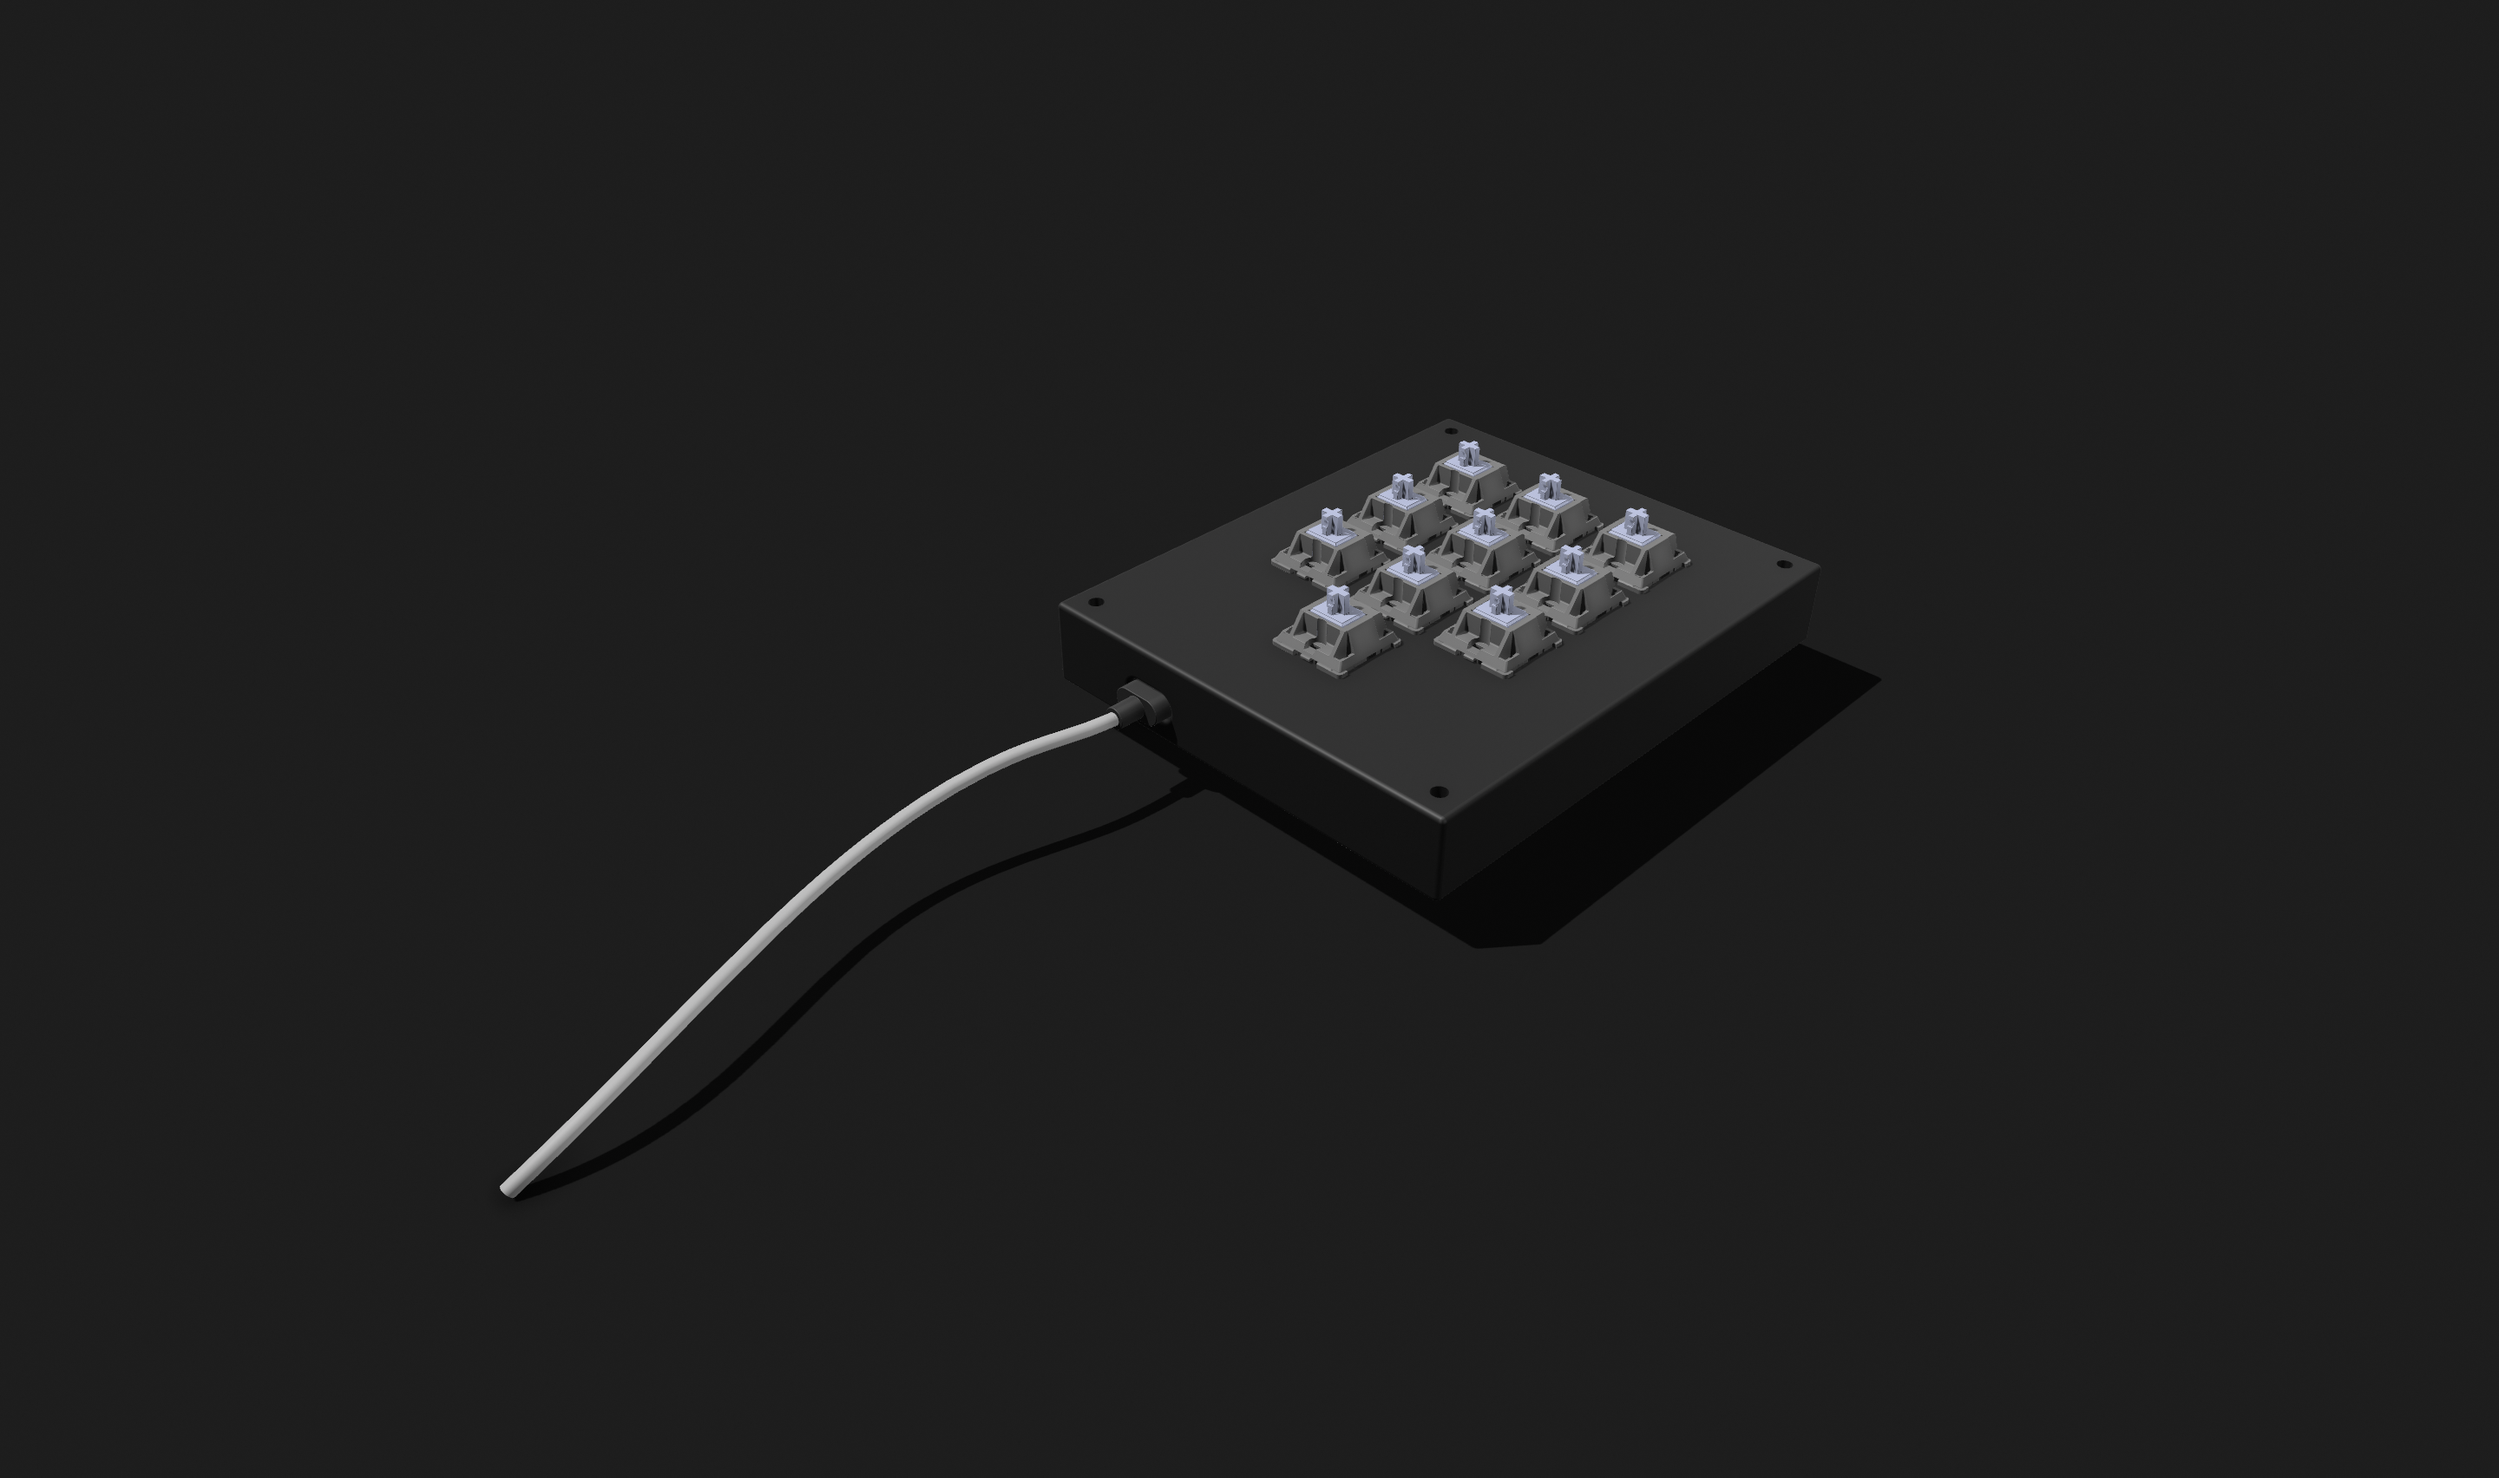
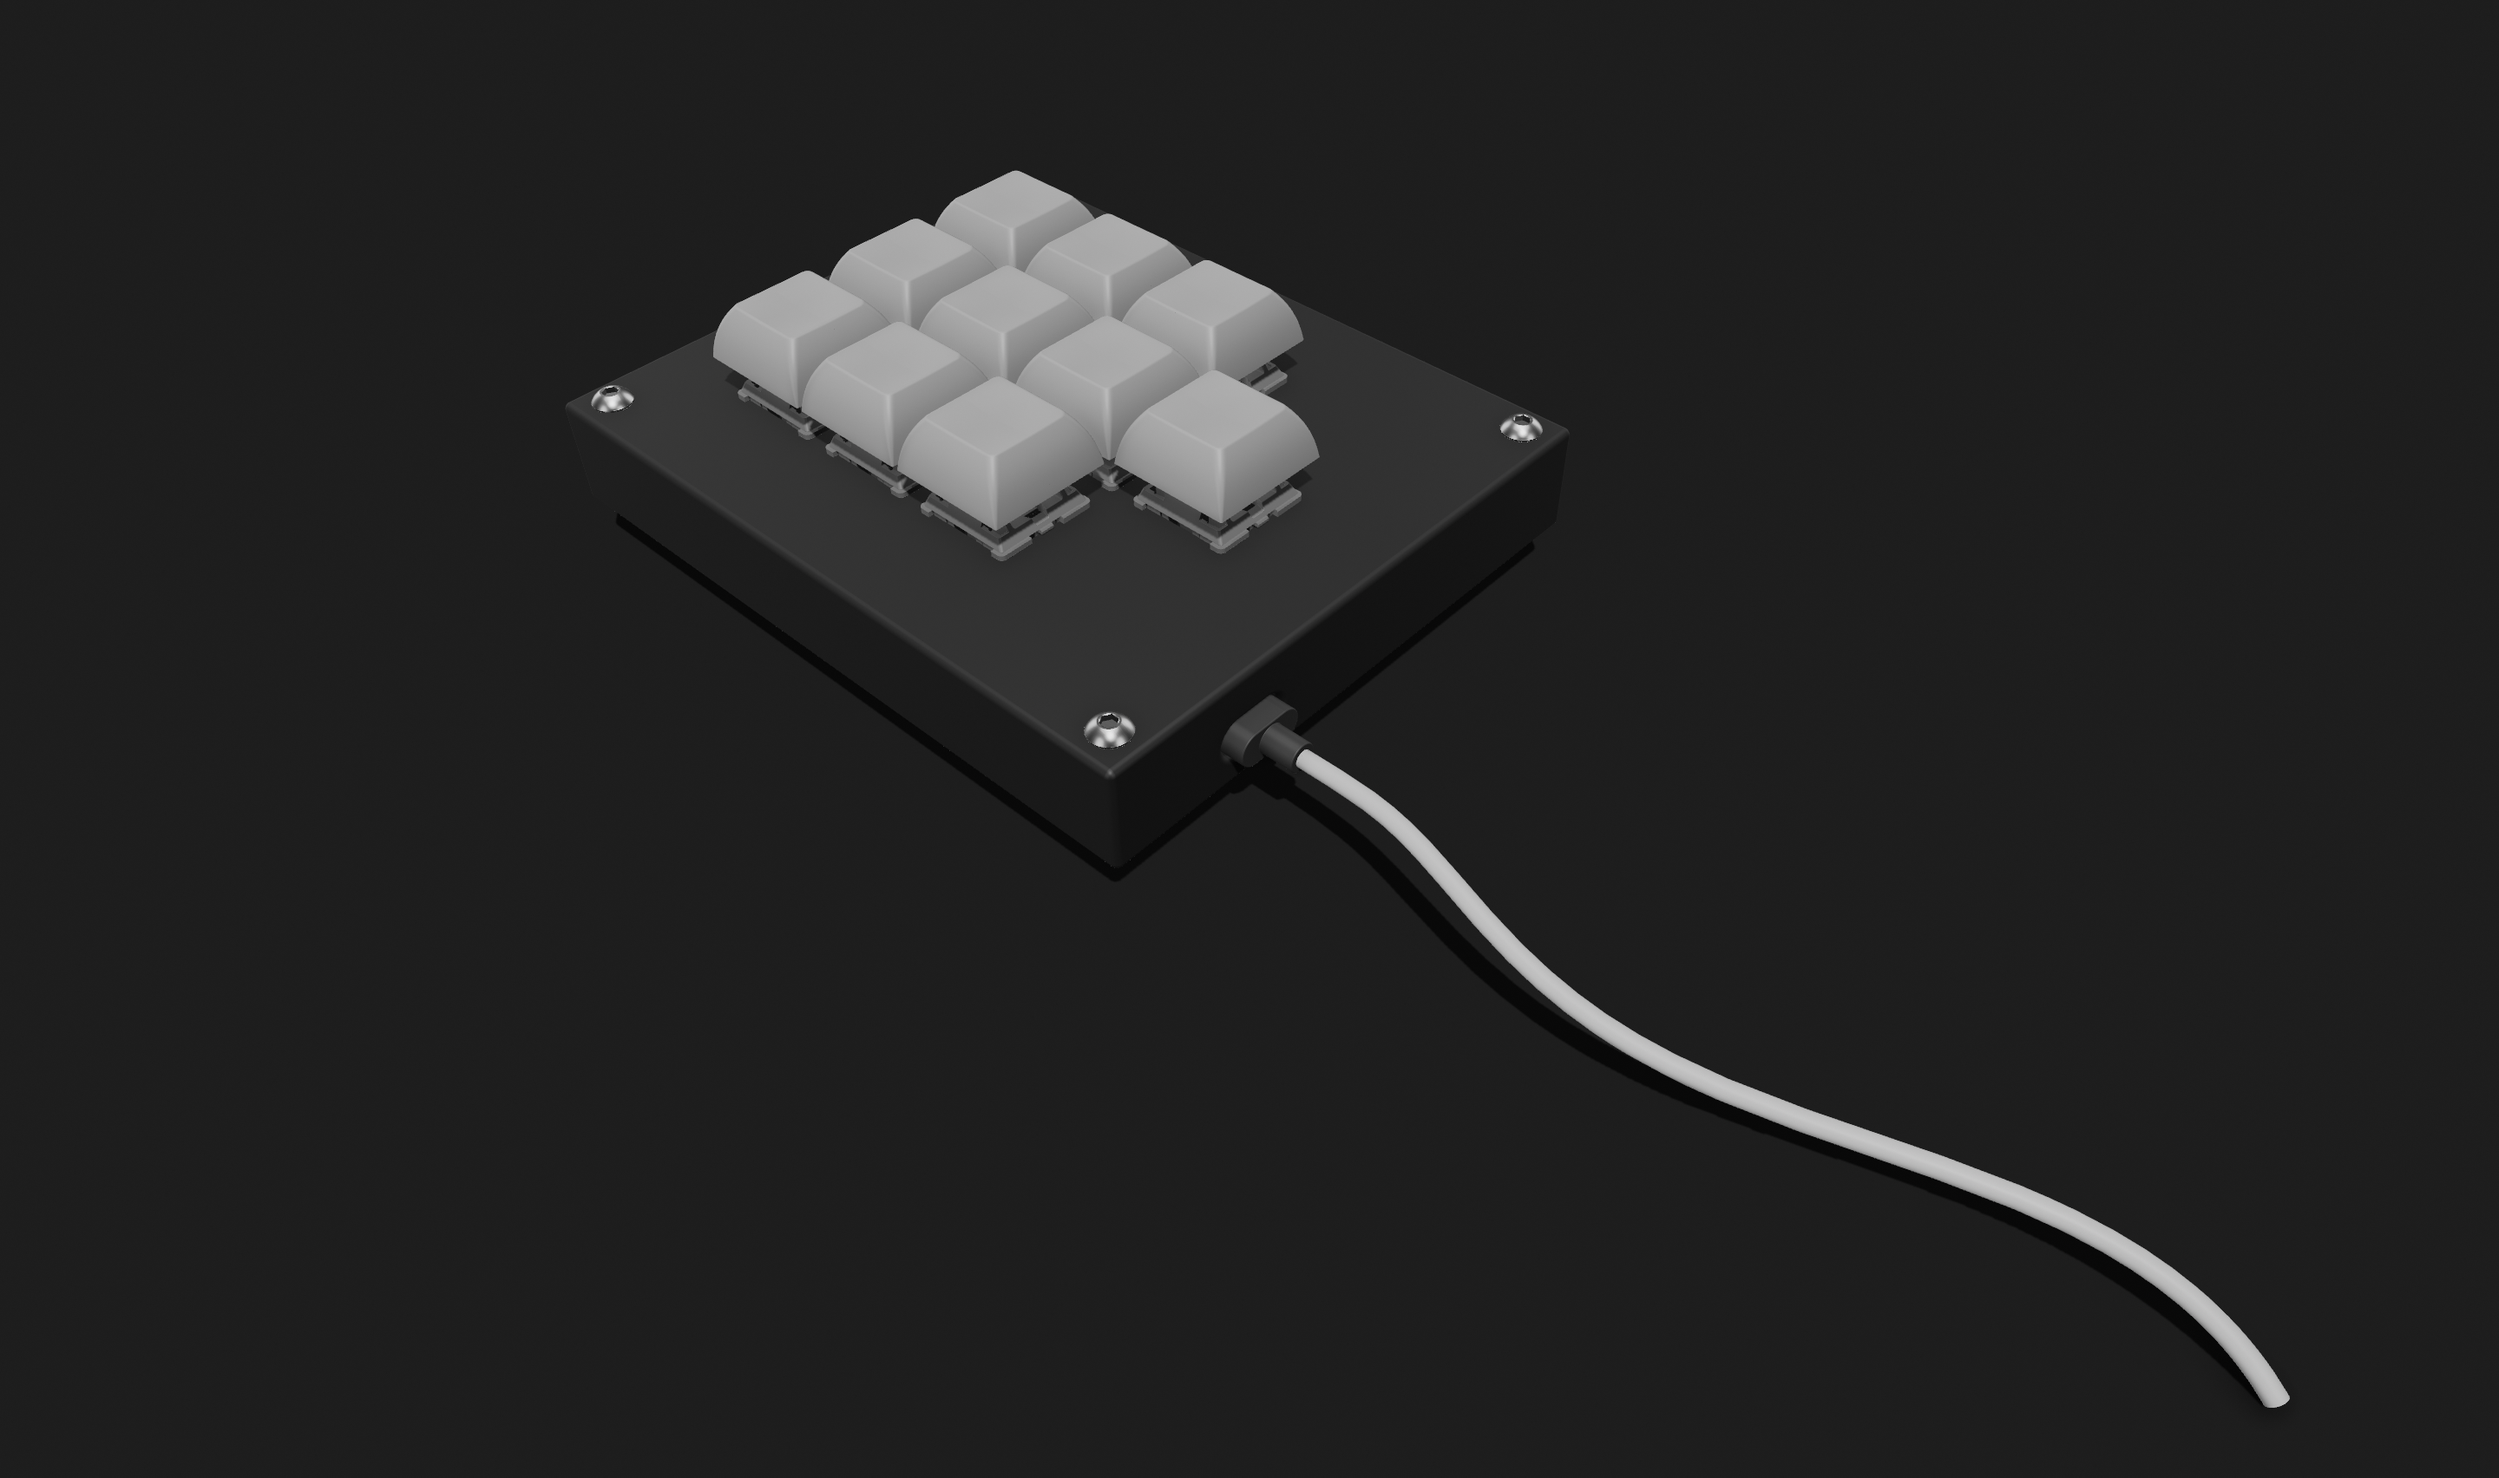
Added the DSA keycaps in the 3D mockup and worked on the README

diff --git a/README.md b/README.md
@@ -1,6 +1,8 @@
 # Numpad
 
->   self-explanatory.
+>   self-explanatory, a custom macropad functioning as a numpad.
+
+![X-Ray CAD](assets/renderings/cad/cad_xray.png)
 
 ## Description
 
@@ -39,39 +41,102 @@ This project is made possible by [Hackpad](https://www.google.com/search?q=Hackp
 
 >   we all know you love them.
 
+<!--
+# Image Row Alignment Guide
+
+### Core Mathematical Formulation
+
+Given a row containing $n$ distinct images, let each image $i \in \{1, 2, \dots, n\}$ possess an intrinsic width $W_i \in \mathbb{R}^+$ and an intrinsic height $H_i \in \mathbb{R}^+$ measured in pixels.
+
+#### 1. Image Aspect Ratio ($R_i$)
+The dimensional aspect ratio for an individual image element $i$ is defined as:
+$$R_i = \frac{W_i}{H_i}$$
+
+#### 2. Combined Row Share ($\mathcal{S}$)
+The aggregate dimensional proportion of the horizontal row sequence is the summation of all individual component ratios:
+$$\mathcal{S} = \sum_{i=1}^{n} R_i$$
+
+#### 3. Normalized Image Width Percentage ($P_i$)
+To constrain the horizontal sequence to exactly 100% of the parent viewport width container while enforcing a uniform visual height baseline across the row, the relative percentage allocation $P_i$ for each image $i$ is formulated as:
+$$P_i = \left( \frac{R_i}{\mathcal{S}} \right) \times 100 = \left( \frac{\frac{W_i}{H_i}}{\sum_{j=1}^{n} \frac{W_j}{H_j}} \right) \times 100$$
+
+---
+
+### Code Architecture Templates
+
+#### Single-Row Configuration
+```html
+<p align="center"><img src="PATH_1" alt="ALT_1" width="P_1%" align="top" /><img src="PATH_2" alt="ALT_2" width="P_2%" align="top" /><img src="PATH_n" alt="ALT_n" width="P_n%" align="top" /></p>
+```
+
+#### Multi-Row Compact Configuration
+```html
+<p align="center">
+  <img src="ROW1_PATH_1" alt="ALT" width="P_1.1%" align="top" /><img src="ROW1_PATH_2" alt="ALT" width="P_1.2%" align="top" />
+  <br style="line-height: 5px;" />
+  <img src="ROW2_PATH_1" alt="ALT" width="P_2.1%" align="top" /><img src="ROW2_PATH_2" alt="ALT" width="P_2.2%" align="top" /><img src="ROW2_PATH_3" alt="ALT" width="P_2.3%" align="top" />
+</p>
+```
+-->
+
 ### PCB
 
-![PCB Schematics](assets/renderings/pcb/pcb_schematics.png)
-
-![PCB Layout](assets/renderings/pcb/pcb_layout.png)
-
-![3D PCB](assets/renderings/pcb/pcb_3d.png)      
+<p align="center"><img src="assets/renderings/pcb/pcb_schematics.png" alt="PCB Schematics" width="36.23%" align="top"/><img src="assets/renderings/pcb/pcb_layout.png" alt="PCB Layout" width="19.67%" align="top"/><img src="assets/renderings/pcb/pcb_3d.png" alt="3D PCB" width="44.10%" align="top"/></p>
 
 ### CAD
 
-![Visualised CAD](assets/renderings/cad/cad_visualised.png)
+>   one assembly image (the others are mostly for eye-candy).
 
-![Shaded CAD](assets/renderings/cad/cad_shaded.png)
-
-![Wireframe CAD](assets/renderings/cad/cad_wireframe.png)
-
-![X-Ray CAD](assets/renderings/cad/cad_xray.png)
-
-![Close-Up X-Ray CAD](assets/renderings/cad/cad_close_xray.png)
-
-### Code
-
->   not orthodox "renderings", but they look cool.
-
-![keyboard.json file](assets/renderings/firmware/keyboard_json.png)
-
-![keymap.c file](assets/renderings/firmware/keymap_c.png)
+<p align="center">
+  <img src="assets/renderings/cad/cad_assembly.png" alt="Assembly CAD" width="55.69%" align="top"/><img src="assets/renderings/cad/cad_xray.png" alt="X-Ray CAD" width="44.31%" align="top"/>
+  <br style="line-height: 5px;"/>
+  <img src="assets/renderings/cad/cad_visualised.png" alt="Visualised CAD" width="39.75%" align="top"/><img src="assets/renderings/cad/cad_shaded.png" alt="Shaded CAD" width="30.03%" align="top"/><img src="assets/renderings/cad/cad_wireframe.png" alt="Wireframe CAD" width="30.22%" align="top"/>
+</p>
 
 ### Photos
 
->   DEFINITELY not renderings.
+>   not exactly orthodox "renderings".
 
-<Insert Images>
+// Images of the finished product
+
+## Assembly
+
+### BoM
+
+>   the parts.
+
+- 1x custom-built `PCB`
+- 1x unsoldered `Seeed XIAO RP2040`
+- 10x through-hole `1N4148 Diodes`
+- 10x `MX-Style switches`
+- 10x white blank `DSA Keycaps`
+- 4x `M3x16mm Screws`
+- 1x 3D-printed `Case`
+    - 1x 3D-printed `Bottom Section`
+    - 1x 3D-printed `Top Section`
+
+>   the tools.
+
+- 1x `Soldering Iron`
+- 1x roll of (with a decent amount left) `Solder`
+- 1x tool for clipping pins (either/or)
+    - 1x (optional) pair of `Wirecutters`
+    - 1x (optional) pair of `Scissors`
+- 1x `Flashing Setup` for...flashing
+    - 1x USB-C `Cable` (for power too)
+    - 1x functioning `Computer`
+- 1x (optional) functioning `3D Printer` 
+- 1x (optional) full-fledged `Factory` for making PCBs
+    - 1x `CNC Router`
+    - 1x `Laser Plotter`
+    - 1x `Chemical Etcher`
+    - 1x `Plating System`
+    - 1x `Silkscreen Printer`
+- 1x functioning [`Encephalon`](https://www.google.com/search?q=Encephalon)
+
+### Instructions
+
+// help me
 
 ## Contributions
 
@@ -79,7 +144,21 @@ Do you have any suggestions, fixes, or extensions? If so, you can submit a pull 
 
 ## Credits
 
-Credits to HCB, Stardance and Hackpad for the initiation of this project. Further thanks to various other projects also made for Hackpad which I referenced and took inspiration from.
+Credits to:
+- `HCB` for hosting this whole thing
+    - `Stardance` for running an actual summer event
+        - `Hackpad` for inspiration on this specific project
+            - `mani` for their schematics made for Spacepad as a reference on [Matrix Wiring](https://www.google.com/search?q=Matrix+Wiring)
+            - `codecraft07` for making Stream Deck act as a reference for finding the correct DSA keycap models (turns out it was in the parts list that I wrote, so...yeah)
+            - `cheyao` for creating the guides
+- `GrabCAD` for their open-source CAD models of various parts
+    - `kevin.yu-7` for their models of the Cherry MX Keyswitches
+    - `mirac.gulgonul-1` for their model of the Seeed Studio XIAO RP2040
+    - `chris.barnado-1` for their model of the flexed USB-C Cable
+    - `zim.cad-1` for their models of the blank white DSA Keycaps
+- `McMaster-Carr` for their huge library of various models, most importantly the M3x16 screws
+- `Shapr3D`, `VSCode` and `KiCad` for making the CAD section of all of this possible
+- `Google` for acting as a universal search engine for all of my dumb querie
 
 ## License
 
